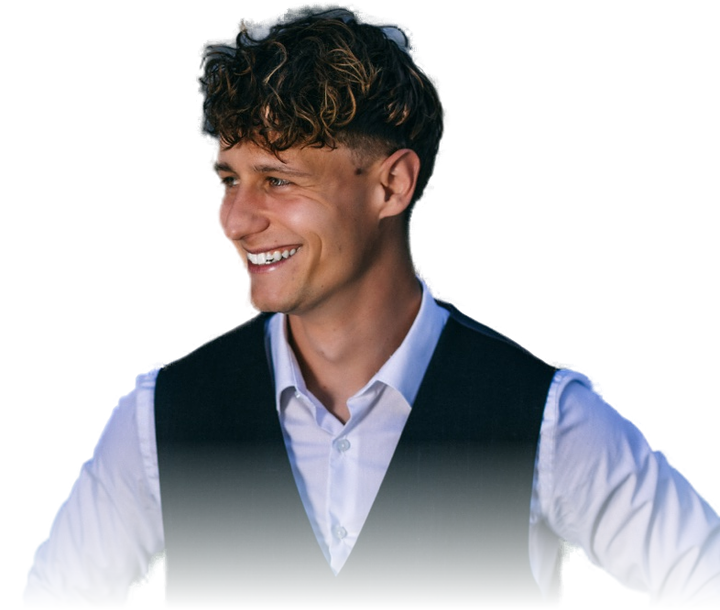
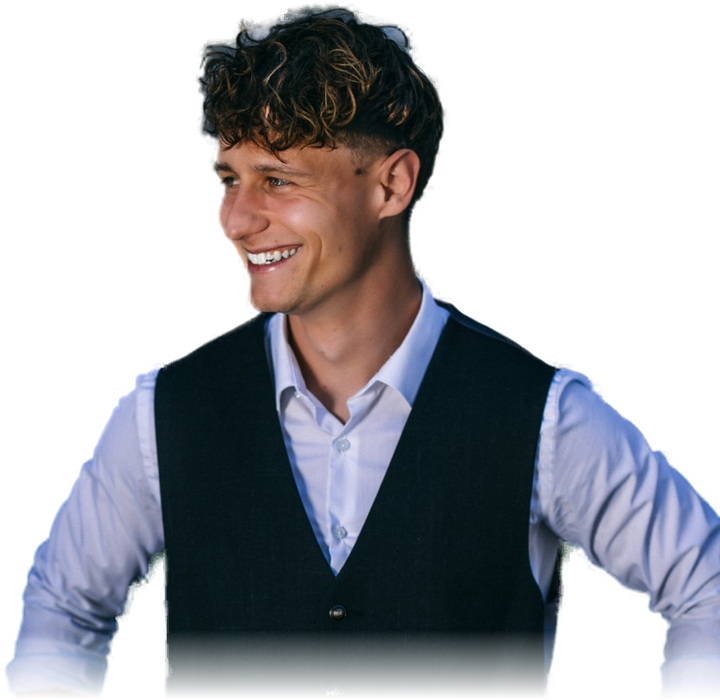
Hero cutout shows first button, collage as zigzag career path
Cutout regenerated to end just below the first vest button; hero arcs
clipped to the hero so nothing bleeds into the next band. About collage
now reads top-to-bottom like the career: workshop → hard hat → Creaitor
(tighter crop) → portrait, alternating left/right.

diff --git a/public/index.html b/public/index.html
@@ -72,16 +72,16 @@ a:focus-visible,button:focus-visible{outline:3px solid var(--lime);outline-offse
 }
 
 /* Hero */
-.hero{min-height:min(78vh,780px);display:flex;align-items:flex-end;padding-block:0 clamp(3rem,6vw,5rem);overflow:hidden;
+.hero{position:relative;isolation:isolate;min-height:min(78vh,780px);display:flex;align-items:flex-end;padding-block:0 clamp(3rem,6vw,5rem);overflow:hidden;
   background:radial-gradient(55% 55% at 15% 30%,rgba(220,239,242,.9),transparent 70%),radial-gradient(55% 60% at 85% 25%,rgba(228,236,229,.95),transparent 70%),radial-gradient(70% 55% at 50% 100%,rgba(220,239,242,.9),transparent 72%),linear-gradient(180deg,var(--cream) 0%,var(--ice) 60%,var(--sage) 100%)}
 .hero::before{content:"";position:absolute;inset:0;pointer-events:none;background-image:linear-gradient(var(--line) 1px,transparent 1px),linear-gradient(90deg,var(--line) 1px,transparent 1px);background-size:56px 56px;opacity:.55;-webkit-mask-image:radial-gradient(70% 70% at 50% 45%,#000 40%,transparent 100%);mask-image:radial-gradient(70% 70% at 50% 45%,#000 40%,transparent 100%)}
-.hero .wrap{position:relative;z-index:2;text-align:center;padding-top:clamp(9rem,21vh,11.5rem)}
-.hero-person{position:absolute;left:50%;top:3.5rem;transform:translateX(-50%);width:clamp(170px,17vw,240px);z-index:1;pointer-events:none;}
+.hero .wrap{position:relative;z-index:2;text-align:center;padding-top:clamp(10.5rem,25vh,13.5rem)}
+.hero-person{position:absolute;left:50%;top:3.5rem;transform:translateX(-50%);width:clamp(180px,18.5vw,260px);z-index:1;pointer-events:none;}
 .hero-person img{width:100%;height:auto;filter:drop-shadow(0 24px 34px rgba(8,47,58,.28))}
 .hero h1{font-size:clamp(2rem,3.9vw,3.6rem);margin-inline:auto;max-width:24ch;position:relative;text-shadow:0 0 14px rgba(245,242,236,.95),0 0 34px rgba(245,242,236,.9),0 0 60px rgba(245,242,236,.8)}
 .hero h1 .cap{font-size:1em;padding:.02em .5em} .hero h1 .comma{margin-left:-.22em}
 .hero .cta{margin-top:clamp(1.6rem,3vw,2.4rem)}
-.lines{position:absolute;inset:0;width:100%;height:100%;pointer-events:none;z-index:1}
+.lines{position:absolute;inset:0;width:100%;height:100%;pointer-events:none;z-index:1;overflow:hidden}
 .lines path{fill:none;stroke:var(--petrol);stroke-opacity:.45;stroke-width:2;stroke-dasharray:7 9;stroke-linecap:round}
 .node{position:absolute;z-index:3;display:flex;flex-direction:column;align-items:center;gap:.45rem;transform:translate(-50%,-33px)}
 .node .disc{width:66px;height:66px;border-radius:50%;background:#fff;display:grid;place-items:center;border:3px solid var(--petrol);box-shadow:0 14px 30px -16px rgba(8,47,58,.5);transition:transform .28s var(--ease),box-shadow .28s var(--ease)}
@@ -122,13 +122,13 @@ a:focus-visible,button:focus-visible{outline:3px solid var(--lime);outline-offse
 /* Über: kompakt, vertikal */
 .about{display:grid;grid-template-columns:1fr;gap:2.2rem;align-items:center}
 .about .head{margin-bottom:.5rem}
-.collage{position:relative;height:clamp(460px,62vw,600px);max-width:540px}
+.collage{position:relative;height:clamp(640px,90vw,820px);max-width:520px}
+.collage .f1{left:0;top:0;width:56%;height:31%;transform:rotate(-3deg);border-color:var(--lime)}
+.collage .f2{right:0;top:20%;width:46%;height:30%;transform:rotate(4deg);border-color:var(--ice)}
+.collage .f3{left:6%;top:47%;width:42%;height:27%;transform:rotate(-4deg);border-color:var(--lime)}
+.collage .f4{right:0;bottom:0;width:44%;height:29%;transform:rotate(3deg);border-color:var(--sage)}
 .collage figure{position:absolute;border-radius:22px;overflow:hidden;box-shadow:0 34px 70px -36px rgba(8,47,58,.5);border:6px solid var(--lime)}
 .collage figure img{width:100%;height:100%;object-fit:cover}
-.collage .f1{left:0;top:0;width:62%;height:56%;transform:rotate(-3deg);border-color:var(--lime)}
-.collage .f2{right:0;top:22%;width:44%;height:40%;transform:rotate(4deg);border-color:var(--ice)}
-.collage .f3{left:6%;bottom:0;width:46%;height:40%;transform:rotate(-5deg);border-color:var(--sage)}
-.collage .f4{right:2%;bottom:3%;width:40%;height:44%;transform:rotate(4deg);border-color:var(--lime);z-index:2}
 .about-text p{color:var(--text);font-size:1.06rem} .about-text p+p{margin-top:.9rem}
 @media (min-width:960px){
   .about{grid-template-columns:.85fr 1.15fr;gap:3.5rem}
@@ -224,7 +224,7 @@ footer{background:#061F27;color:rgba(245,242,236,.7);padding:1.6rem var(--gutter
     <path d="M 1072 930 C 1050 800, 1120 690, 1230 650 S 1400 605, 1465 598"/>
   </svg>
   <div class="hero-person" aria-hidden="true">
-    <picture><source srcset="luka-cutout.webp" type="image/webp"><img src="luka-cutout.png" alt="" width="720" height="610" fetchpriority="high"></picture>
+    <picture><source srcset="luka-cutout.webp" type="image/webp"><img src="luka-cutout.png" alt="" width="720" height="700" fetchpriority="high"></picture>
   </div>
   <div class="node n1"><div class="disc"><svg viewBox="0 0 24 24" fill="none" stroke="currentColor" stroke-width="2" stroke-linecap="round" stroke-linejoin="round" aria-hidden="true"><circle cx="11" cy="11" r="6.5"/><path d="m20 20-4.2-4.2"/></svg></div><span>Verstehen</span></div>
   <div class="node n2"><div class="disc"><svg viewBox="0 0 24 24" fill="none" stroke="currentColor" stroke-width="2" stroke-linecap="round" stroke-linejoin="round" aria-hidden="true"><path d="M12 3 4 6v6c0 4.5 3.4 7.6 8 9 4.6-1.4 8-4.5 8-9V6l-8-3Z"/><path d="m8.5 12 2.3 2.3L15.5 9.6"/></svg></div><span>Verantwortung übernehmen</span></div>
@@ -253,8 +253,8 @@ footer{background:#061F27;color:rgba(245,242,236,.7);padding:1.6rem var(--gutter
     <div class="collage rv">
       <figure class="f1"><img src="luka-werkstatt.jpg" alt="Luka Pecar beim Schweissen in der Werkstatt" width="1000" height="1000" loading="lazy"></figure>
       <figure class="f2"><img src="luka-baustelle.jpg" alt="Luka Pecar mit Helm auf der Baustelle" width="900" height="1125" loading="lazy"></figure>
-      <figure class="f3"><img src="luka-nahbar.jpg" alt="Luka Pecar, lachend" width="1000" height="1000" loading="lazy"></figure>
-      <figure class="f4"><img src="luka-creaitor.jpg" alt="Luka Pecar am Messestand eines KI-Start-ups" width="800" height="1000" loading="lazy"></figure>
+      <figure class="f3"><img src="luka-creaitor.jpg" alt="Luka Pecar am Messestand eines KI-Start-ups" width="800" height="1000" loading="lazy"></figure>
+      <figure class="f4"><img src="luka-nahbar.jpg" alt="Luka Pecar, lachend" width="1000" height="1000" loading="lazy"></figure>
     </div>
     <div class="about-text rv d1">
       <p>Mein Weg beginnt im Handwerk: zwei Lehren als Heizungs- und Sanitärinstallateur. Schon während der Ausbildung habe ich Verantwortung übernommen und Arbeiten bald eigenständig ausgeführt, von der Planung kleinerer Projekte bis zur Umsetzung auf der Baustelle.</p>
